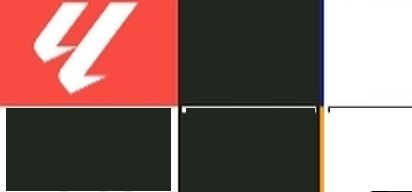
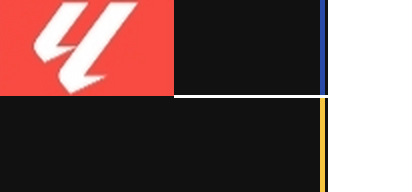
v0.5.67: placar sem fundo marrom — células pretas e brancas

Changed region(s): [[0.0, 0.0, 1.0, 1.0], [0.9029, 0.9688, 1.0, 1.0]]

diff --git a/xfc-game/styles/laliga-board.css b/xfc-game/styles/laliga-board.css
@@ -28,7 +28,7 @@
   width: 42% !important;
   height: 50% !important;
   transform: none !important;
-  background: transparent !important;
+  background: #111 !important;
   color: #fff !important;
   clip-path: none !important;
   border: 0 !important;
@@ -50,7 +50,7 @@
   margin: 0 !important;
 }
 .hud__scoreboard.hud__scoreboard--laliga .hud__sc-main .hud__score {
-  background: none !important;
+  background: #fff !important;
   -webkit-background-clip: border-box !important;
   background-clip: border-box !important;
   color: #111 !important;

diff --git a/xfc-game/styles/match3d.css b/xfc-game/styles/match3d.css
@@ -561,7 +561,7 @@
   top: 50%;
   width: 42%;
   height: 50%;
-  background: transparent;
+  background: #111;
   color: #fff;
   font-size: 13px;
   line-height: 1;
@@ -576,7 +576,7 @@
   margin: 0;
 }
 .hud__scoreboard.hud__scoreboard--laliga .hud__sc-main .hud__score {
-  background: none;
+  background: #fff;
   -webkit-background-clip: border-box;
   background-clip: border-box;
   color: #111;
@@ -590,7 +590,7 @@
   top: 50%;
   width: 30px;
   height: 50%;
-  background: #21261f;
+  background: #111;
   color: #fff;
   font-size: 13px;
 }

diff --git a/xfc-game/docs/v0.5.67.md b/xfc-game/docs/v0.5.67.md
@@ -1,0 +1,5 @@
+# XFC 27 — v0.5.67: placar sem fundo marrom
+
+versionCode 73. TAG `xfc-gameplay-v0.5.67`.
+
+Relógio e nomes em célula preta. Gols em célula branca. Sem o tom marrom.
